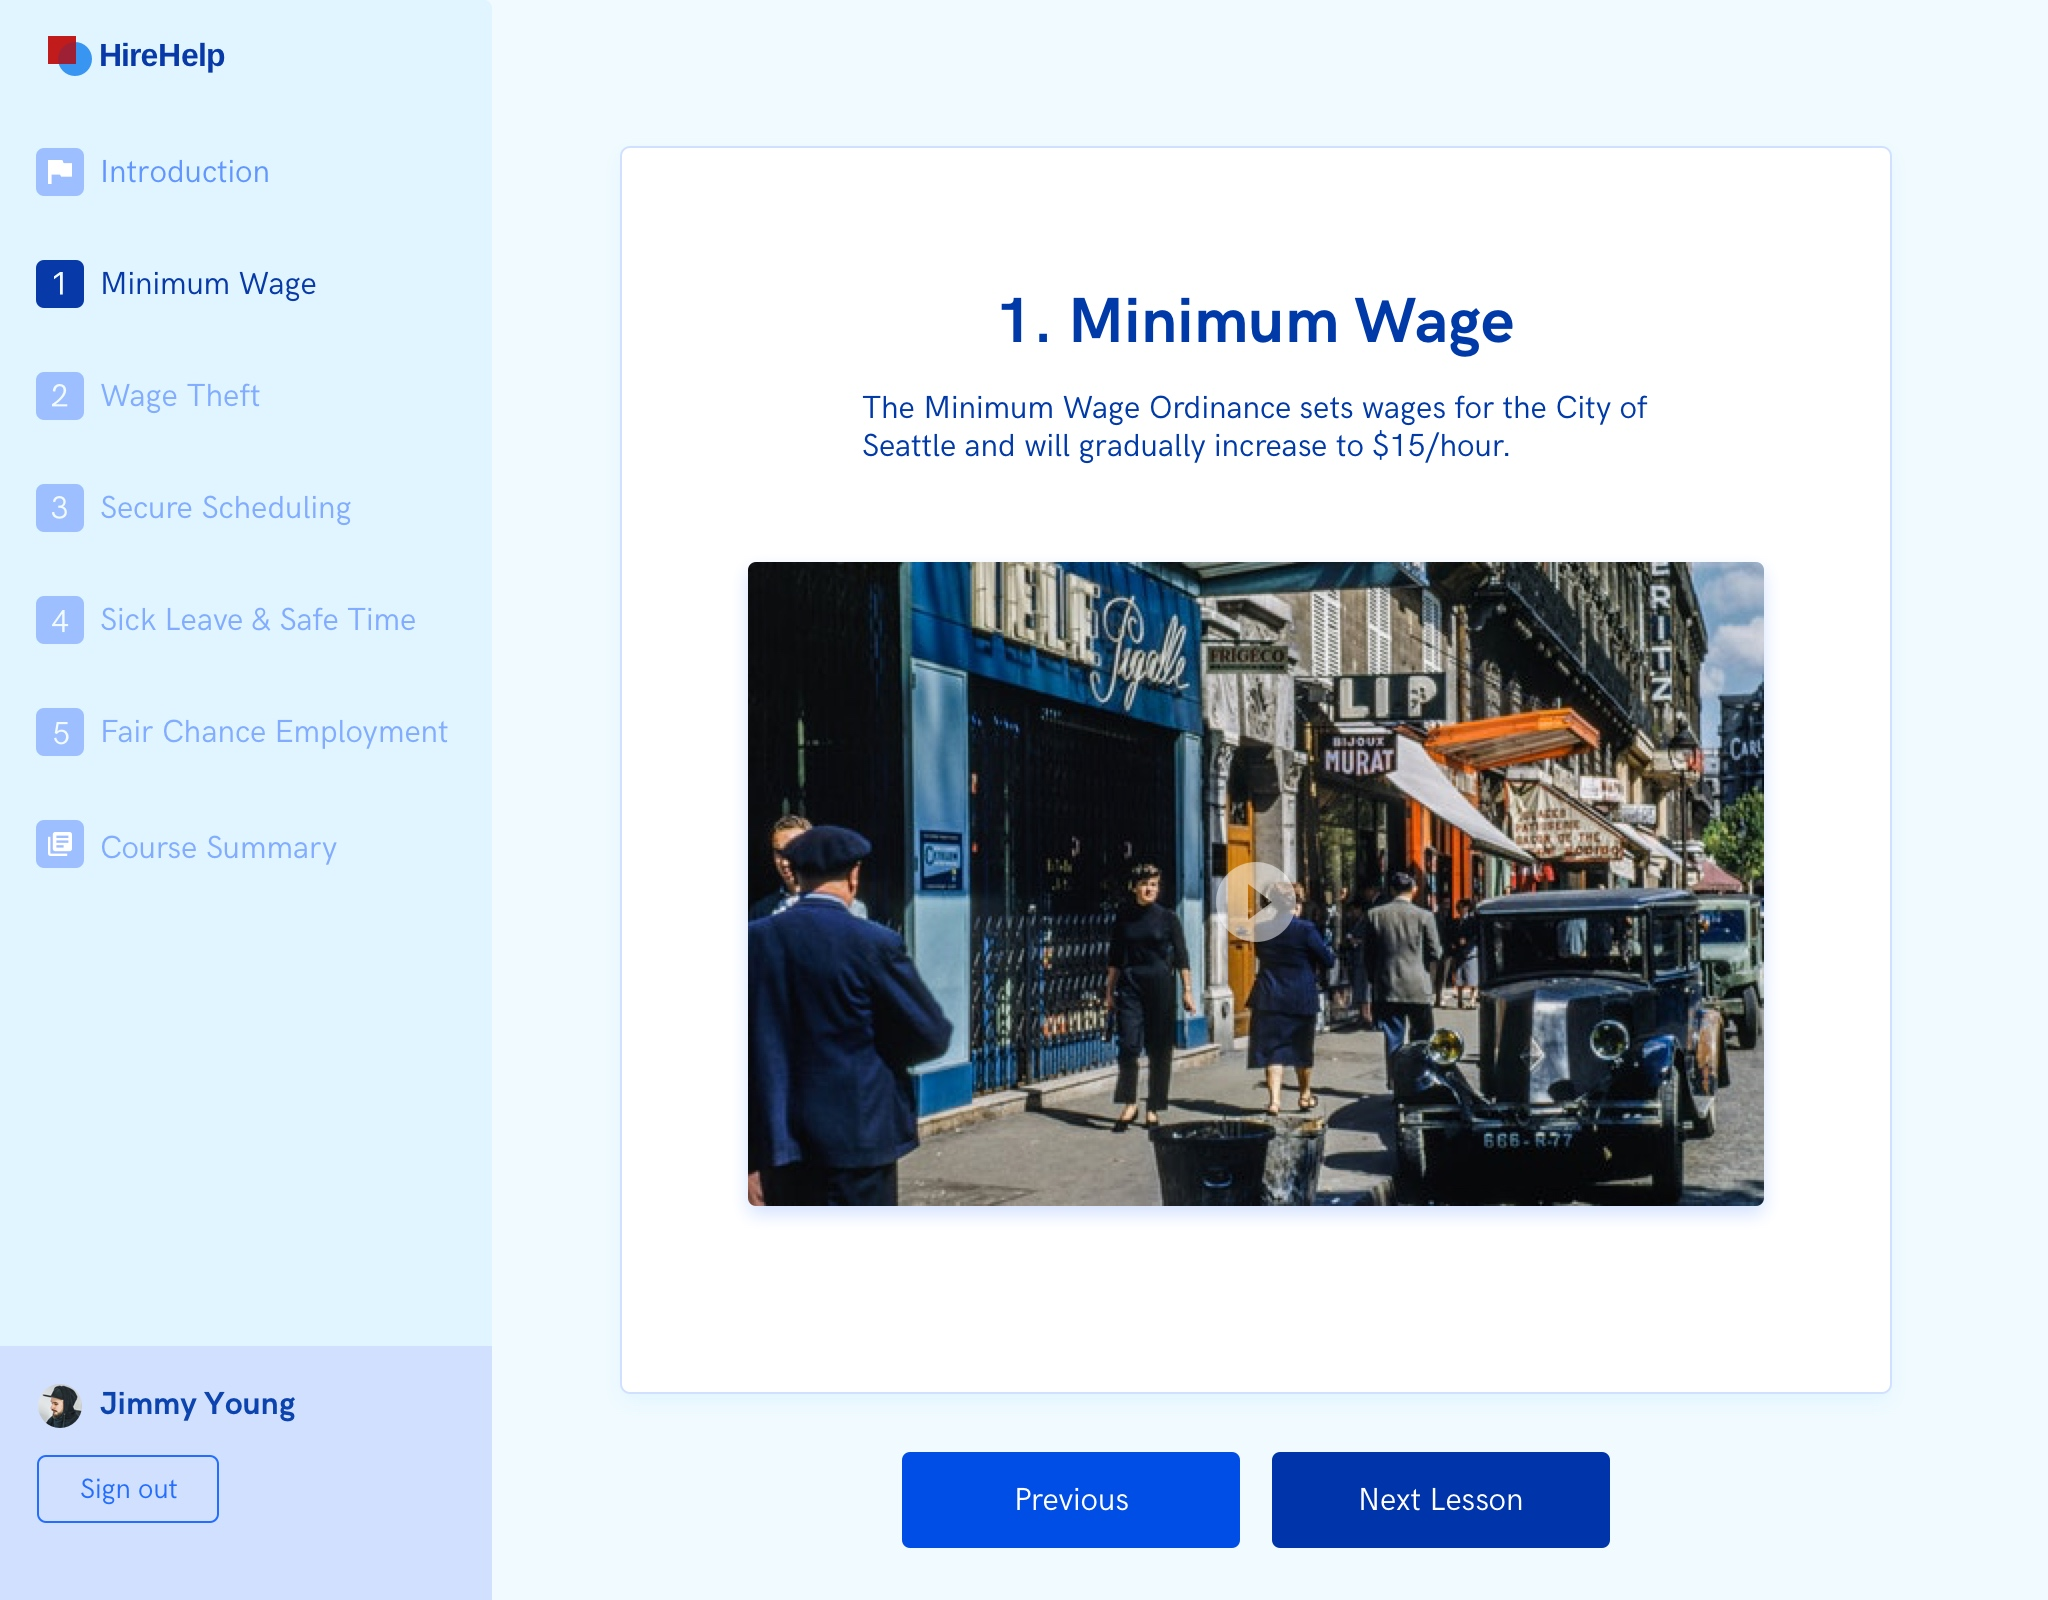
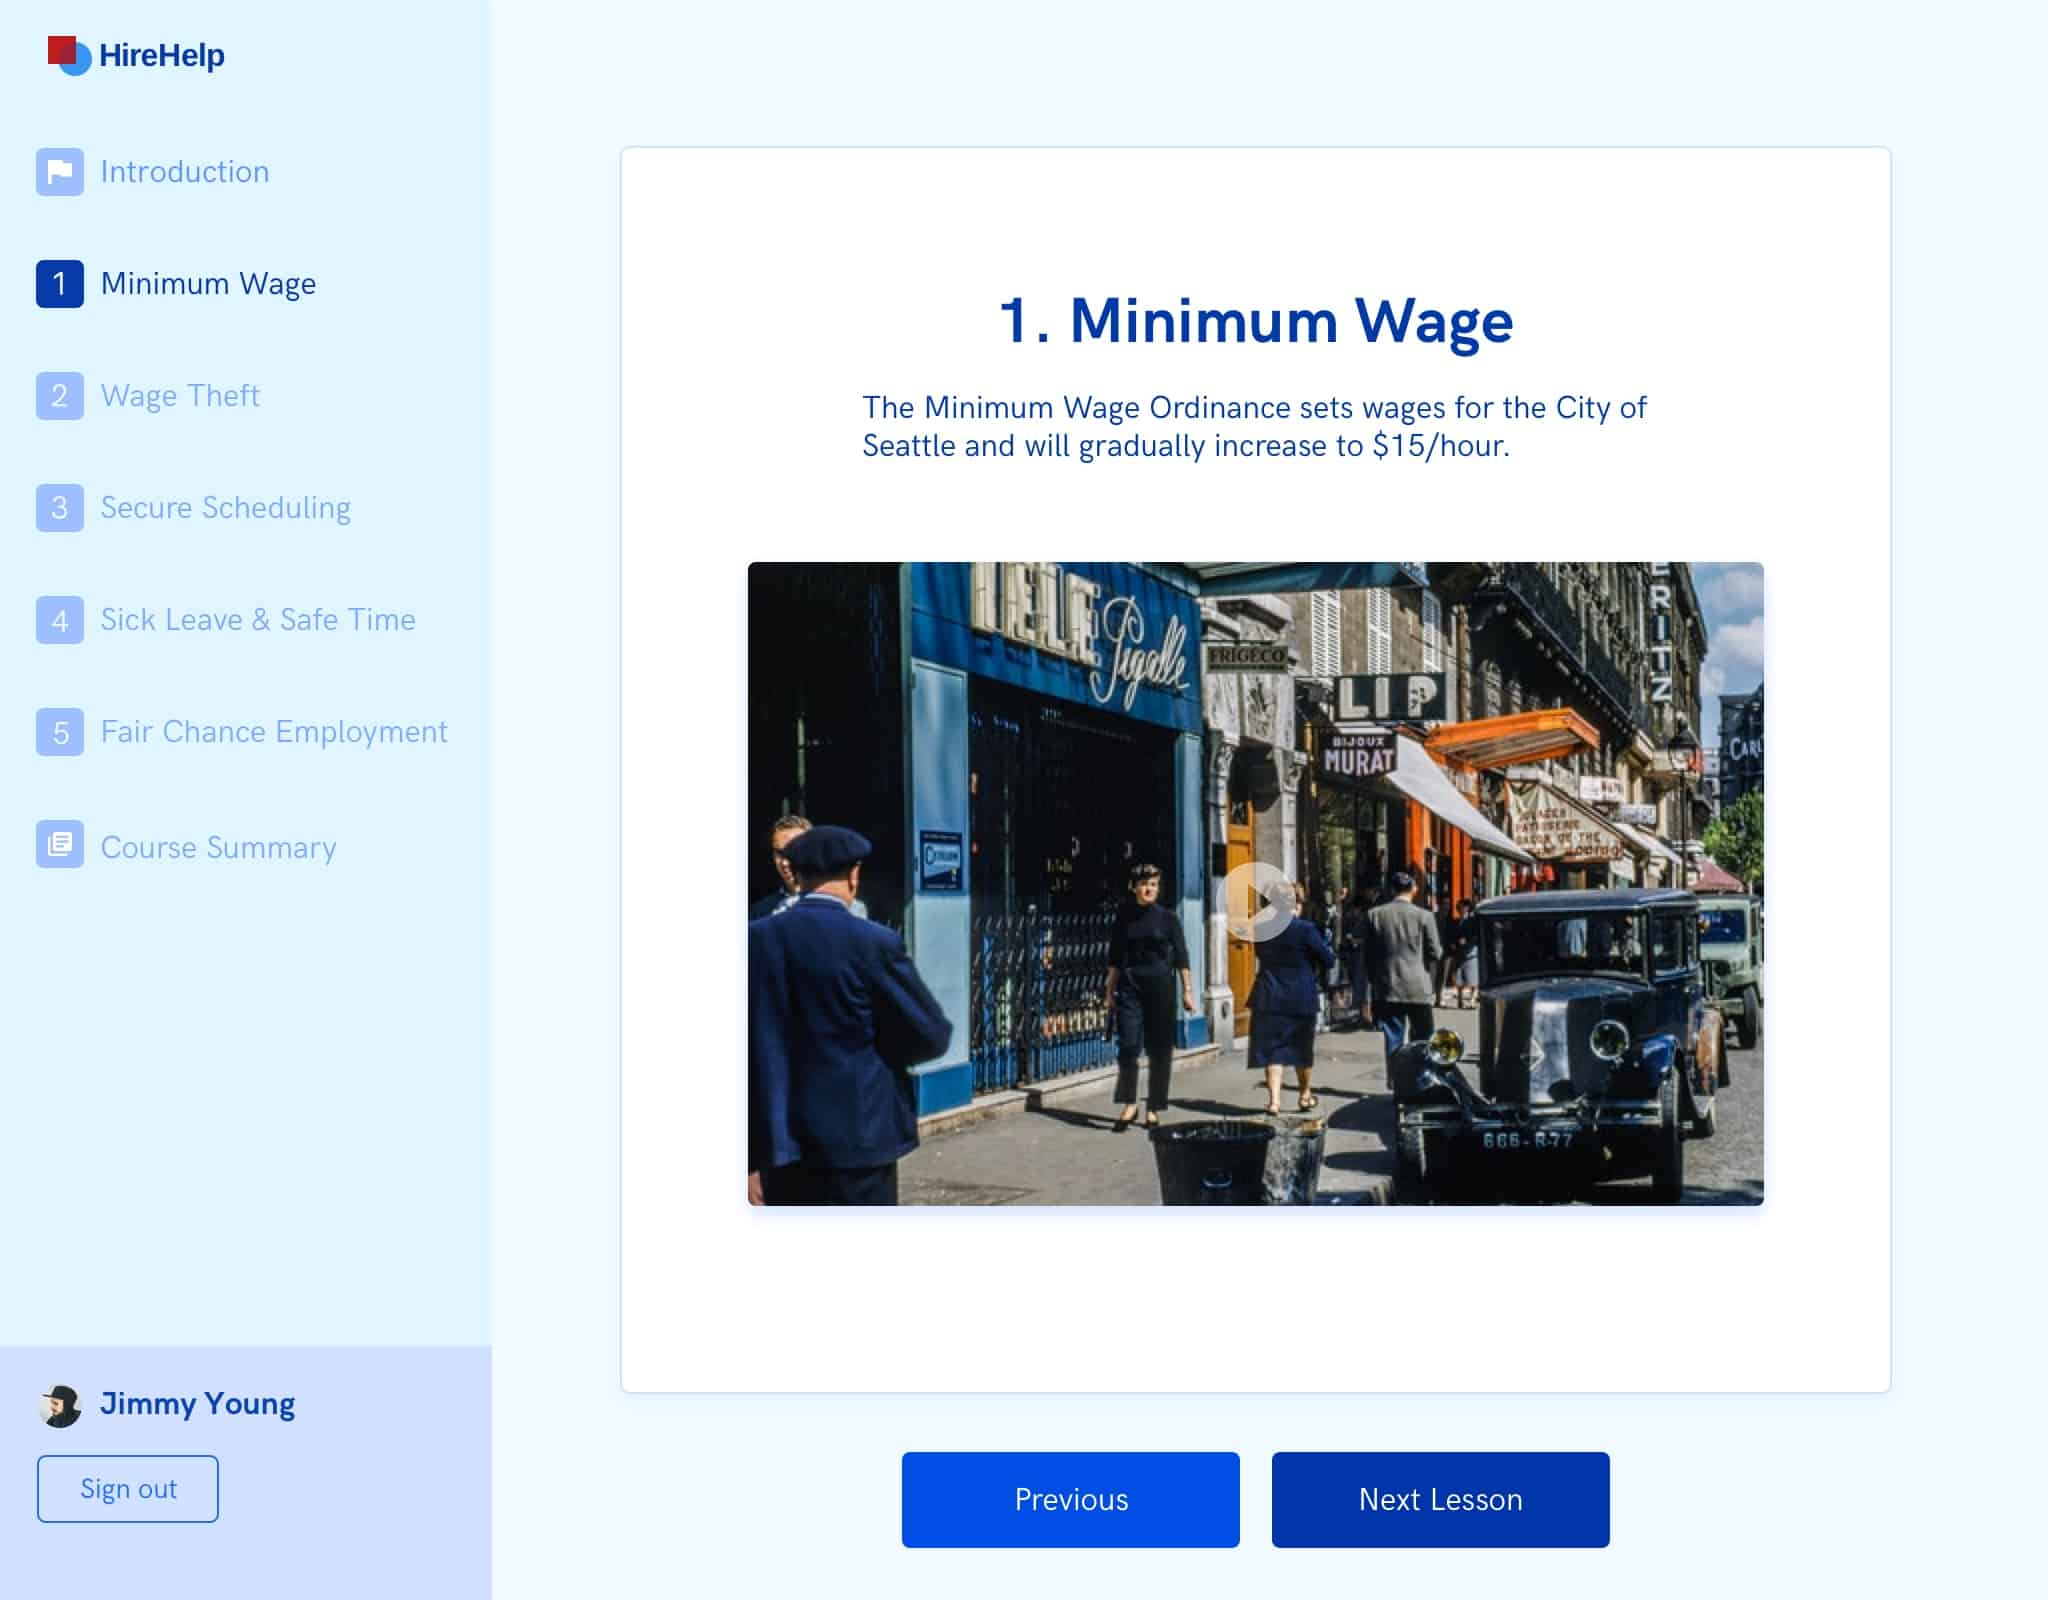
minimizing img sizes, and updating tachyons version

diff --git a/_includes/head.html b/_includes/head.html
@@ -12,7 +12,6 @@
   <link rel="alternate" type="application/rss+xml" title="{{ site.title }}" href="{{ "/feed.xml" | prepend: site.baseurl | prepend: site.url }}">
 
   <!-- Styles -->
-  <link rel="stylesheet" href="https://unpkg.com/tachyons@{{ site.tv }}/css/tachyons.min.css"/>
   <link rel="stylesheet" href="{{ "/css/main.css" | prepend: site.basurl }}">
   <link rel="stylesheet" href="https://cdnjs.cloudflare.com/ajax/libs/animate.css/3.5.2/animate.min.css">
   <style>

diff --git a/_site/index.html b/_site/index.html
@@ -31,7 +31,6 @@
   <link rel="alternate" type="application/rss+xml" title="Jimmy Young" href="jyng.github.io/feed.xml">
 
   <!-- Styles -->
-  <link rel="stylesheet" href="https://unpkg.com/tachyons@4.6.1/css/tachyons.min.css"/>
   <link rel="stylesheet" href="/css/main.css">
   <link rel="stylesheet" href="https://cdnjs.cloudflare.com/ajax/libs/animate.css/3.5.2/animate.min.css">
   <style>

diff --git a/css/main.scss b/css/main.scss
@@ -1,5 +1,6 @@
 ---
 ---
+@import url('https://unpkg.com/tachyons@{{ site.tv }}/css/tachyons.min.css');
 $color-666: #666666;
 $color-meme: #420666;
 

diff --git a/_site/css/main.css b/_site/css/main.css
@@ -1,3 +1,4 @@
+@import url("https://unpkg.com/tachyons@4.9.0/css/tachyons.min.css");
 .gray-666 {
   color: #666666; }
 
